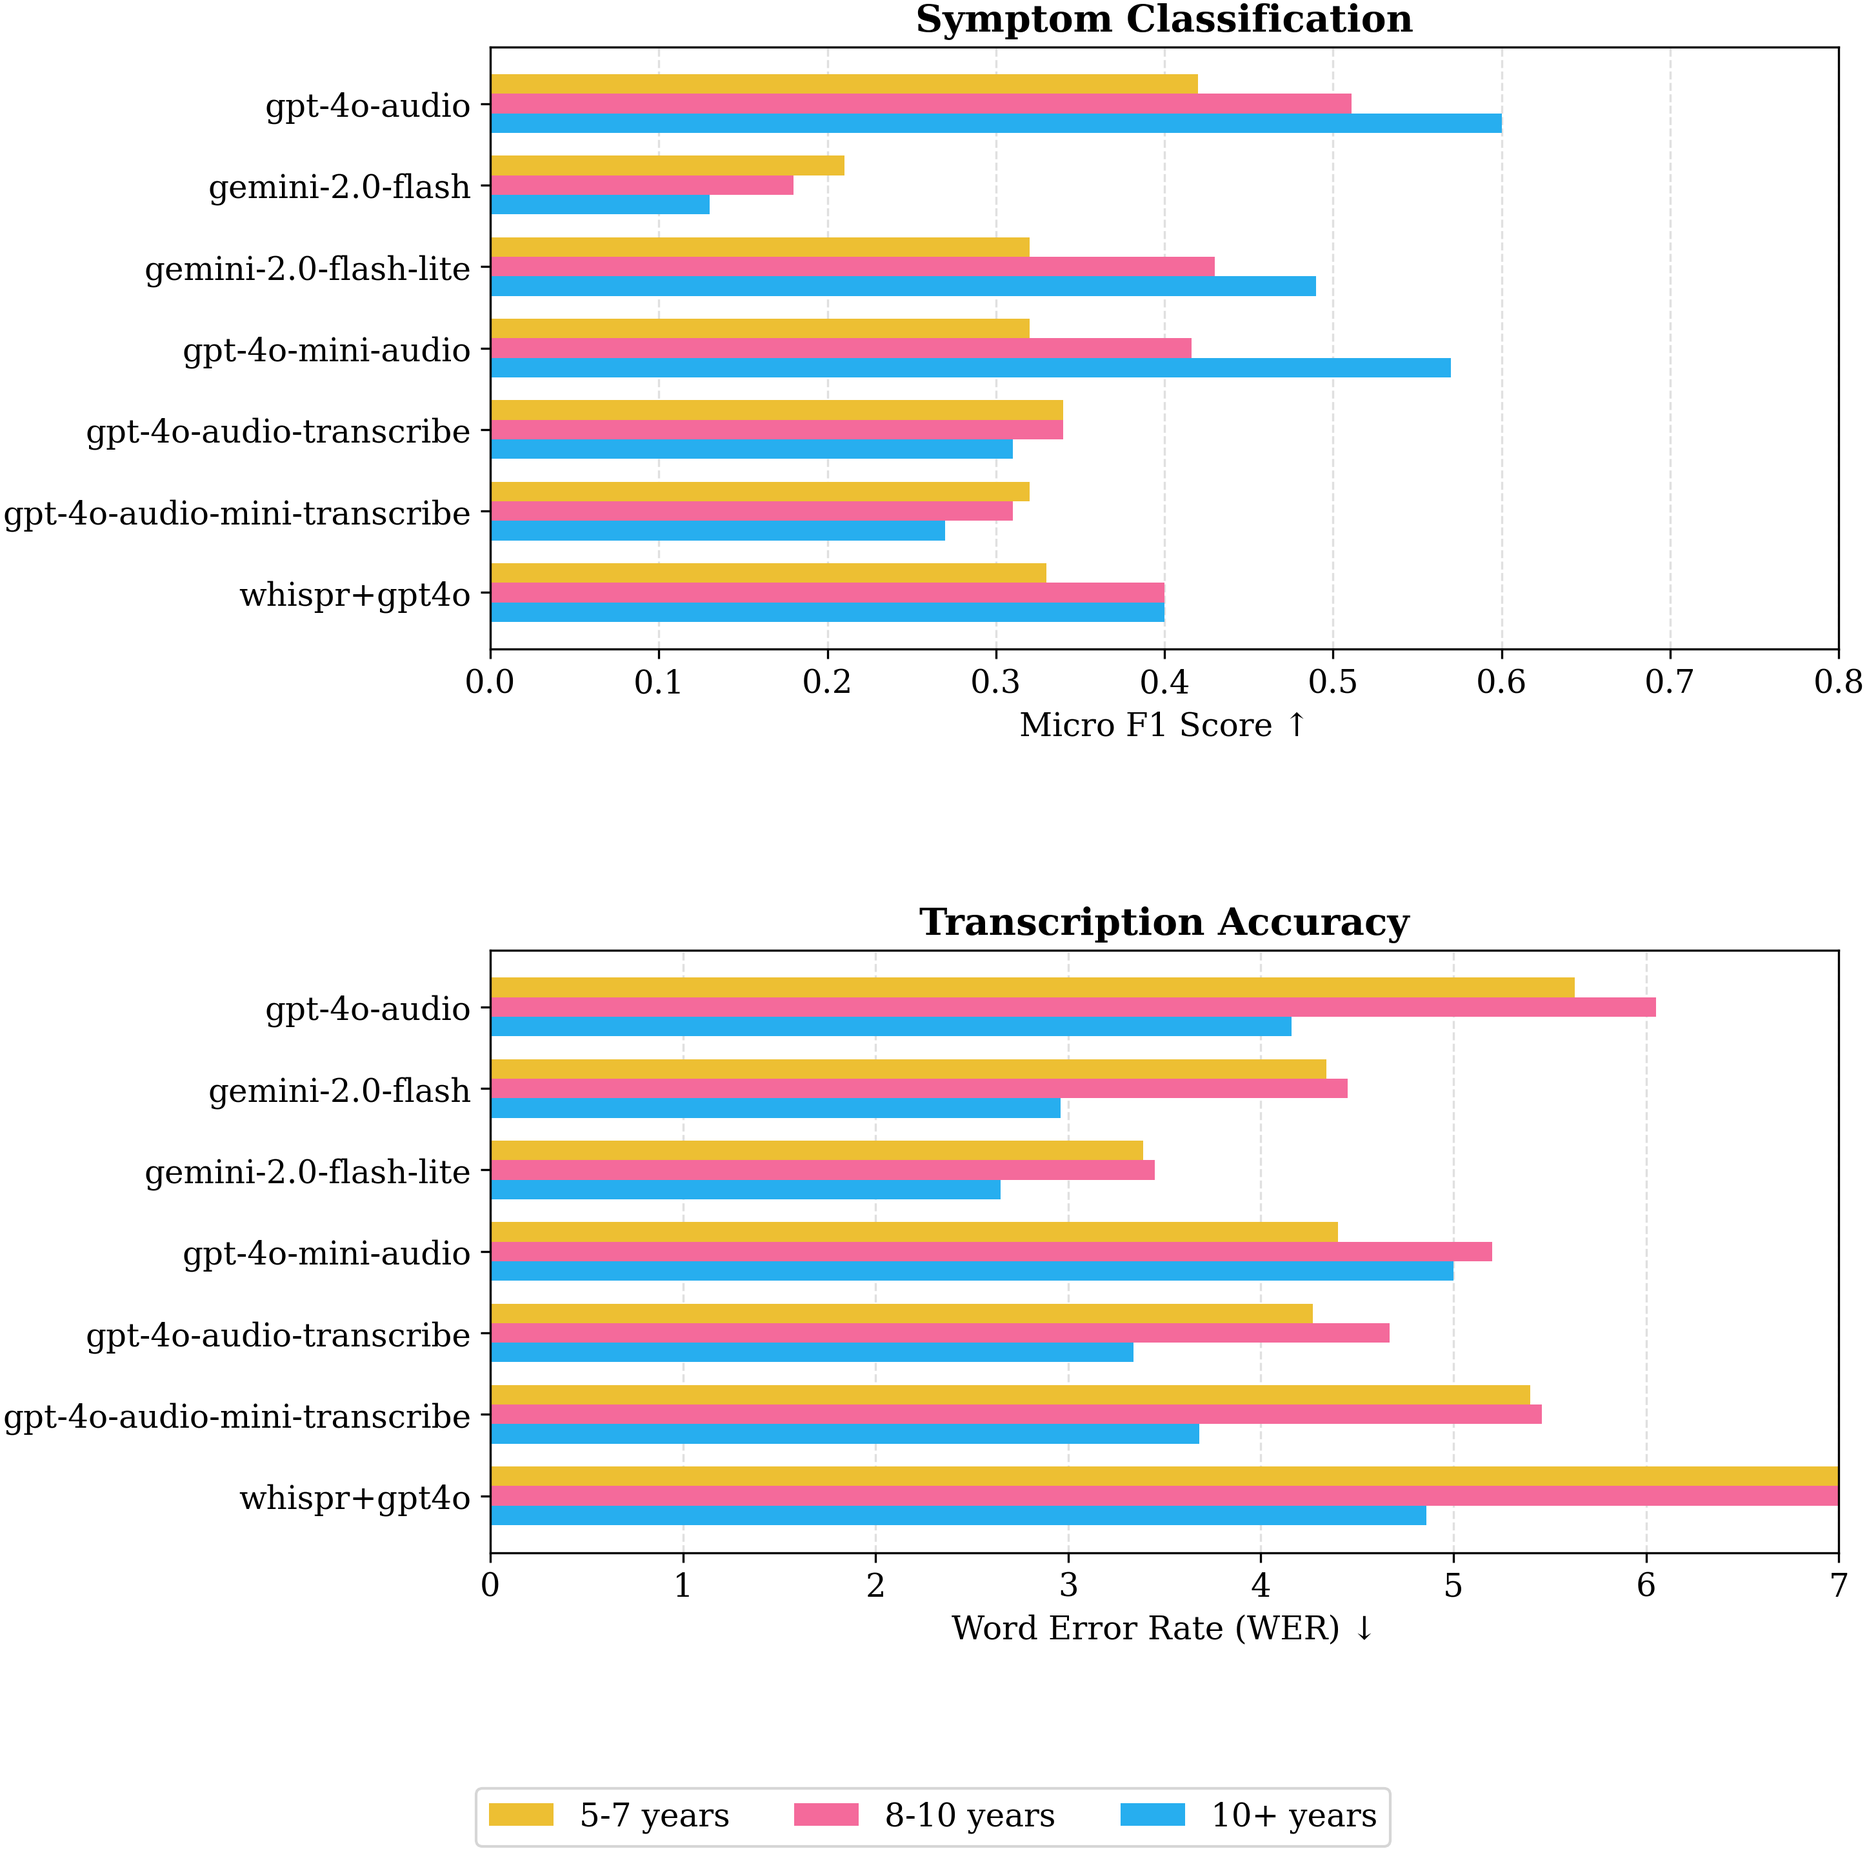
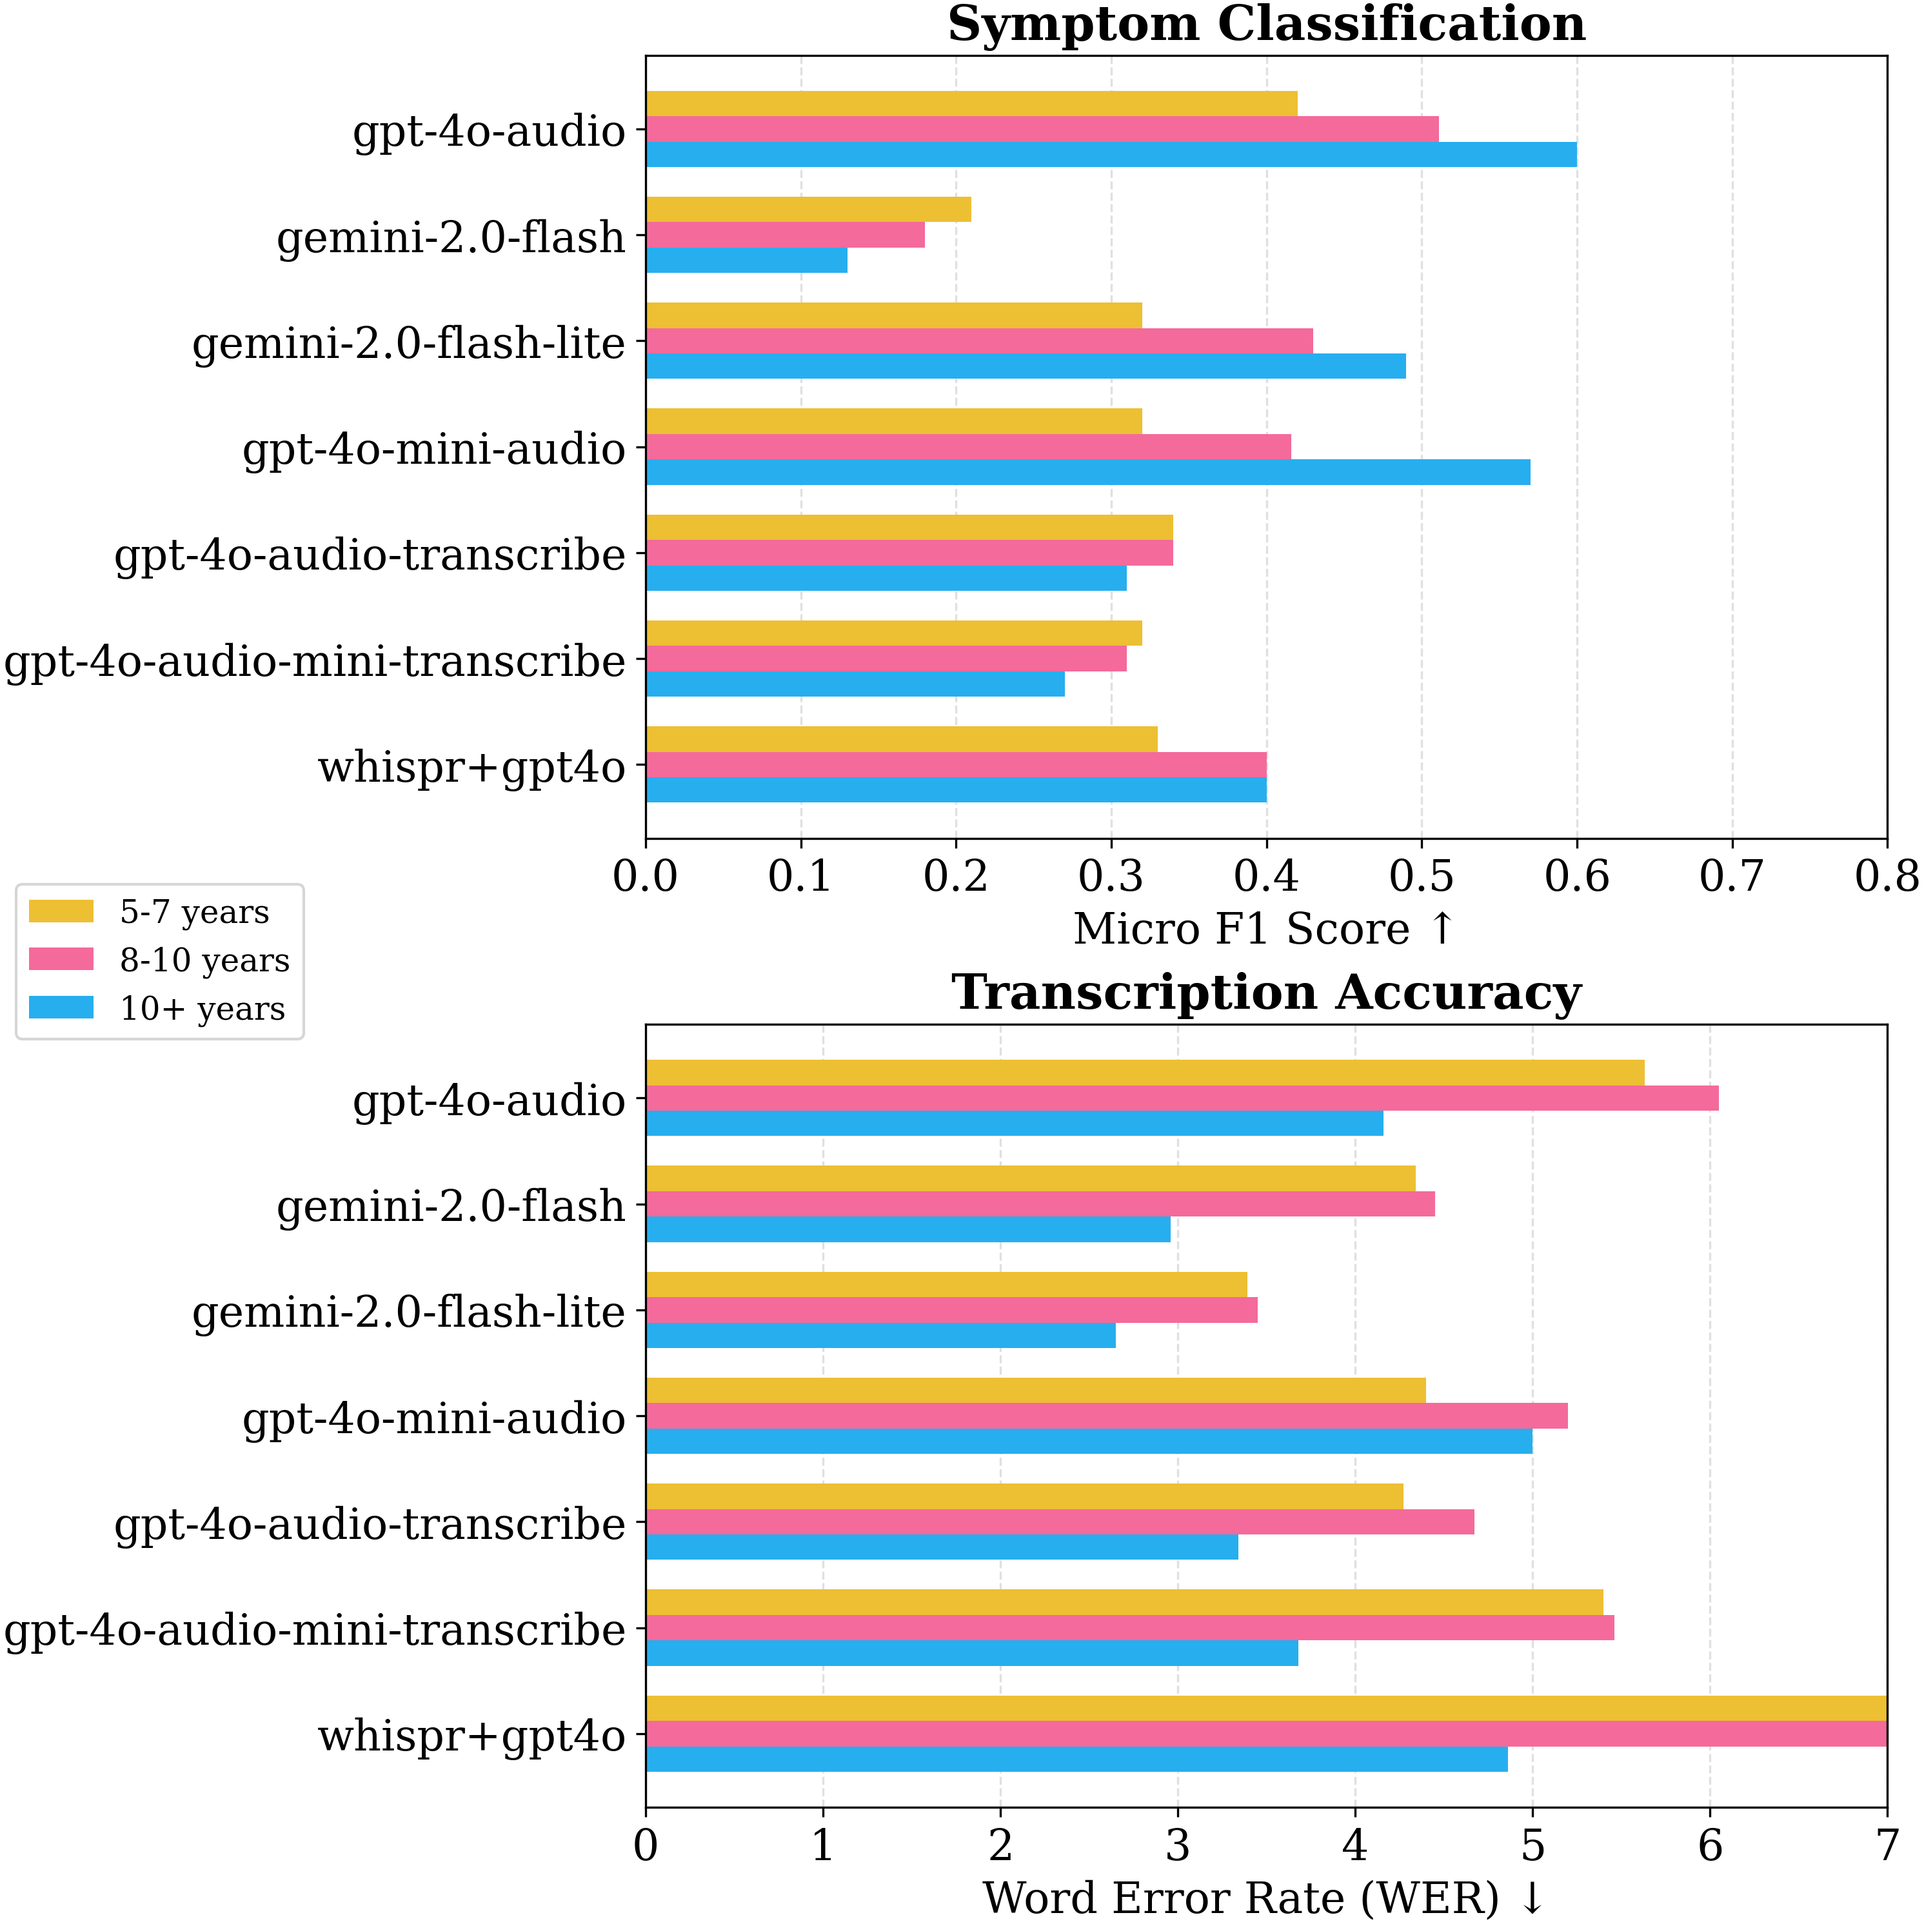
update age

diff --git a/age_group_analysis.py b/age_group_analysis.py
@@ -32,17 +32,17 @@ def plot_horizontal_grouped_bar_chart(ax, models, scores1, scores2, scores3, lab
     # Set y-axis ticks and labels (model names)
     ax.set_yticks(y_pos)
     if show_yticklabels:
-        ax.set_yticklabels(models, fontsize=14)
+        ax.set_yticklabels(models, fontsize=16)
     else:
         ax.set_yticklabels([''] * len(models))
 
     ax.invert_yaxis()  # Display models from top to bottom
-    ax.tick_params(axis='y', labelsize=14)
+    ax.tick_params(axis='y', labelsize=16)
 
     # Set x-axis label and limits
-    ax.set_xlabel(x_label, fontsize=14)
+    ax.set_xlabel(x_label, fontsize=16)
     ax.set_xlim(0, xlim_upper)
-    ax.tick_params(axis='x', labelsize=14)
+    ax.tick_params(axis='x', labelsize=16)
 
     # Set title for the subplot
     ax.set_title(title, fontsize=18, fontweight='bold')
@@ -143,16 +143,12 @@ plot_horizontal_grouped_bar_chart(
     show_yticklabels=True
 )
 
-# Create legend at the bottom of the figure
 fig.legend(['5-7 years', '8-10 years', '10+ years'], 
-          loc='lower center', bbox_to_anchor=(0.5, 0.02), 
-          ncol=3, fontsize=12, frameon=True)
+          loc='center left', 
+          ncol=1, fontsize=12, frameon=True)
 
 # Adjust layout to prevent overlap and make room for legends
-plt.tight_layout(pad=1.5, w_pad=2.5)
-plt.subplots_adjust(bottom=0.18, hspace=0.5)  # Make room for legend at bottom
 
 # Show plot
-plt.savefig('age_group_analysis.png', dpi=300)
-
+plt.savefig('Age.png', dpi=300)
 plt.show()
